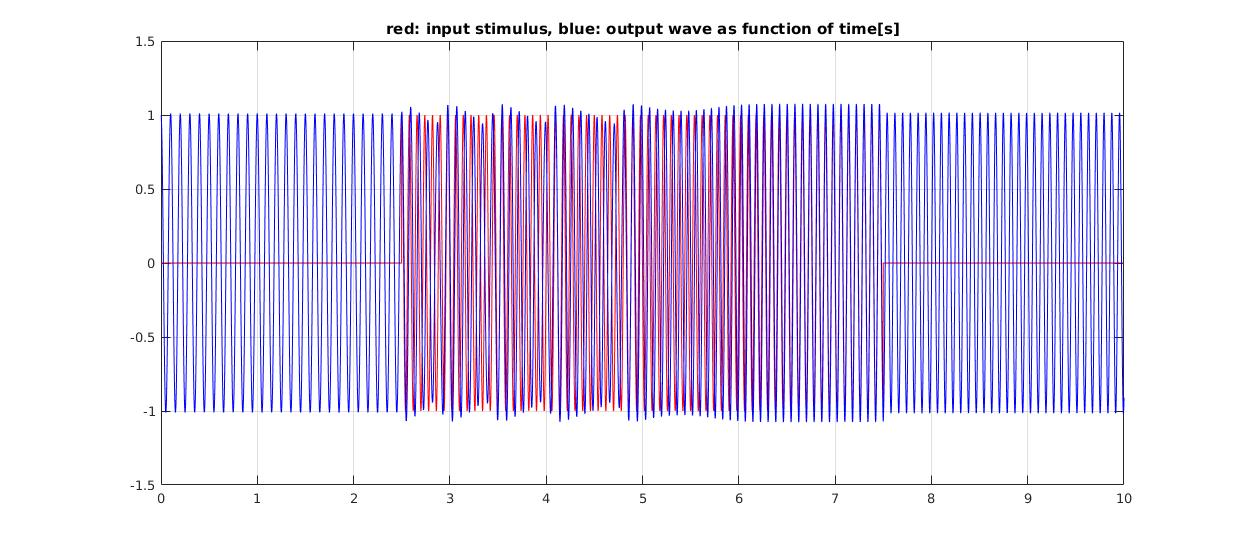
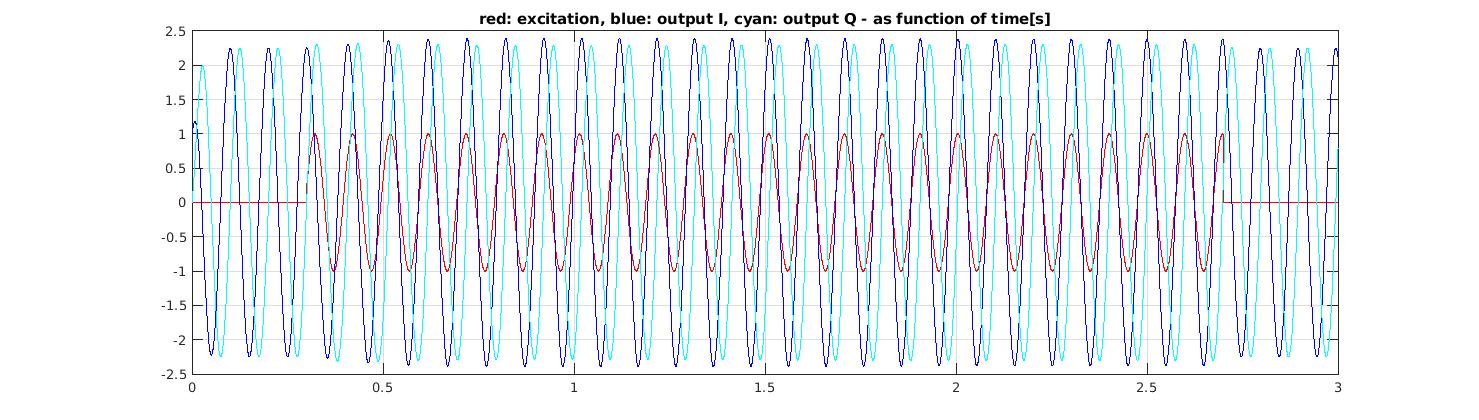
add example and update documentation

diff --git a/adaptive_Hopf.m b/adaptive_Hopf.m
@@ -1,84 +1,88 @@
 % File: adaptive_Hopf.m
 % Purpose: Matlab script for testing and tuning the Adaptive Frequency Oscillator Arduino program.
-% Version: 1.0.0
-% Date: 18-12-2018
+% Version: 1.1.0
+% Date: 10-01-2020
 % Created by: Martin Stokroos
-% URL: https://github.com/MartinStokroos/adaptiveFreqOsc
+% URL: https://www.epfl.ch/labs/biorob/research/neuromechanical/page-36365-en-html
 % License: MIT License
 
 % The adaptive Hopf frequency oscillator model was taken from:
 % A.J.Ijspeert, Adaptive Frequency Oscillators, https://biorob.epfl.ch/cms/page-36365.html.
 %
-% This m-file is not an example of efficient matlab programming. It was written with the purpose to develop C-programming code.
+% This m-file is not an example of efficient matlab programming. It was written with the purpose to develop C-code.
 
 clear all;
 close all;
 clc;
 
-Fs=1000; % sampling frequency
-Tfinal=10.0; % simulation time
-T=1/Fs; % sampling Time = 1/Fs
-t=linspace(0,Tfinal,Tfinal/T); % simulation time vector
+f_init = 10.0;
+f_step = 10.1;
+
+Fs=3000; %Sampling frequency
+Tfinal=3.0; %s simulation time
+T=1/Fs; %Sampling Time = 1/Fs
+t=linspace(0,Tfinal,Tfinal/T); %Simulation Time vector
 
 plotvar1 = linspace(0,0,Tfinal/T);
 plotvar2 = linspace(0,0,Tfinal/T);
-plotvar3 = linspace(0,0,Tfinal/T);
-x = 1;  % starting point of the oscillator. x=1 and y=0, starts as cosine. 
+plotvar4 = linspace(0,0,Tfinal/T);
+x = 1;  % starting point of the oscillator. x=1 and y=0 starts as cosine. 
 x_new = 0;
 x_d = 0;
 y = 0;
 y_new = 0;
 y_d = 0;
-ohm = 10*2*pi; %10Hz
+ohm = 2*pi*f_init
 ohm_new = 0;
 ohm_d = 0;
 
-Epsilon = 15; % coupling strength (>0).
-              % the oscillator locks faster for larger values, but it will also increase the ripple in the frequency. 
+Eps = 20; % coupling strength (>0).
+       % Locks faster for a bigger value, but the ripple in frequency is larger. 
 
-gamma = 100.0; % follows the amplitude of the stimulus better for larger values, but it may cause instability.  
+gamma = 10.0; % follows the amplitude of the stimulus better for high values
+           % may cause oscillations for high values  
 
-mu = 1.0; % seems to scale the amplitude.
+mu = 5.0; % seems to scale the amplitude.
 
 
 for n=1:Tfinal/T
     
-    % input stimulus
-    if n < Tfinal/(4*T) % apply step after 1/4th of the simulation time
+    %stimulus
+    if n < Tfinal/(10*T) % apply step at 1/10th of the simulation time
         F = 0;
         %F = sin(2*pi*n*T);
     end
-    if (n >= Tfinal/(4*T)) && (n < Tfinal/(4*T/3))
+    if (n >= Tfinal/(10*T)) && (n < Tfinal/(10*T/9))
         %F = 0;
-        F = sin(12.5*2*pi*n*T); %12.5Hz
+        F = sin(f_step*2*pi*n*T);
     end
-    if (n >= Tfinal/(4*T/3))
-        %F = 0;
+    if (n >= Tfinal/(10*T/9))
         F = 0;
     end
 
     % discretized adaptive Hopf
-    x_d = gamma*( mu-(x^2 + y^2) )*x - ohm*y + Epsilon*F;
+    x_d = gamma*( mu-(x^2 + y^2) )*x - ohm*y + Eps*F;
     y_d = gamma*( mu-(x^2 + y^2) )*y + ohm*x;
-    ohm_d = -Epsilon * F * y/( sqrt(x^2 + y^2) );
+    ohm_d = -Eps * F * y/( sqrt(x^2 + y^2) );
     x_new = x + T*x_d;
     y_new = y + T*y_d;
     ohm_new = ohm + T*ohm_d;
-    
-    plotvar1(n) = F; % input stimulus
-    plotvar2(n) = x; % output
-    plotvar3(n) = ohm/(2*pi); % frequency
+
+    plotvar1(n) = F;
+    plotvar2(n) = x;
+    plotvar3(n) = y;
+    plotvar4(n) = ohm/(2*pi); %frequency
     
     x = x_new;
     y = y_new;
     ohm = ohm_new;
-  
 end
 
 
 figure;
-plot(t,plotvar1,'r', t,plotvar2,'b'), title('red: input stimulus, blue: output wave as function of time[s]');
+plot(t,plotvar1,'r', t,plotvar2,'b',  t,plotvar3,'c'), title('red: excitation, blue: output I, cyan: output Q - as function of time[s]');
 grid on
 figure;
-plot(t, plotvar3), title('blue: output frequency [Hz], as function of time[s]');
+plot(t, plotvar4), title('blue: output frequency [Hz] as function of time[s]');
 grid on
+

diff --git a/README.md b/README.md
@@ -2,20 +2,26 @@
 
 The *adaptiveFreqOsc* project for Arduino is a fascinating example of a self learning algorithm.
 Ijspeert[1] presented a Hopf frequency oscillator and added an extra state variable to it, that forces the oscillator to follow any periodic input signal. In other words, this type of oscillator can adapt its parameters to learn the frequency of the periodic input signal. The Arduino sketch presented here, is an example of a practical implementation of such oscillator.
-First, the model from Ijspeert was discretized to make it run on the Arduino at a loop rate of 1kHz. The implications of the discretization are, that the oscillator will no longer synchronize to *any* periodic input signal. The sampling frequency must be taken into account.
+First, the model from Ijspeert was discretized to make it run on the Arduino. The implications of the discretization are, that the oscillator will no longer synchronize to *any* periodic input signal. The sampling frequency must be taken into account.
 
-The larger the frequency difference between the current output and the input of the oscillator, the longer it will take for the oscillator to converge to the desired input frequency. First, try the oscillator learning with only a few Hz difference between output and input and play with the parameter values for Epsilon, gamma and mu. After converging, take away the input signal and the last offered input frequency will stay encoded in the system.
+The larger the frequency difference between the current output and the input of the oscillator, the longer it will take for the oscillator to converge to the desired input frequency. First, try the oscillator learning only with  a few tenth of Hz's difference between output and input and play with the parameter values for Eps(ilon), gamma and mu. After converging, take away the input signal and the last offered input frequency will stay encoded in the system.
 
-The included Matlab script file *adaptive_Hopf.m* was used for the development of the C-code for the Arduino. The script can be used to tune the oscillator parameters before implementation of the oscillator in the Arduino. Figs. 1 and 2 are the result of a simulation with: Epsilon=15.0, gamma=100.0 and mu=1.0.
-f0=10.0Hz and finput=12.5Hz.
+The included Matlab script file *adaptive_Hopf.m* was used for the development of the C-code for the Arduino. The script can be used to tune the oscillator parameters before implementation of the oscillator in the Arduino. Figs. 1 and 2 are the result of a simulation at a loop-rate of 3kHz and with Eps=20.0, gamma=10.0 and mu=5.0,  f_initial=10.0Hz and f_excitation=10.1Hz.
 
-![Fig. 1. ](figures/fig_1.jpg  "Oscillator output as function of time.")
+![Fig. 1. ](figures/fig_1.jpg  "Oscillator output as function of time")
 
-In Fig. 1 the input stimulus appears at t=2.5s. The output slowly converges towards 12.5Hz. At t=7.5s, the input is turned off again.
+In Fig. 1 the input stimulus appears at t=0.3s. The output slowly converges towards 10.1Hz. At t=2.7s the input is turned off again. output I is the in-phase output and output Q the quadrature output. Fig. 2 shows the output frequency as function of time.
 
-![ Fig. 2.](figures/fig_2.jpg  "Output frequency as function of time.")
+![ Fig. 2.](figures/fig_2.jpg  "Output frequency as function of time")
 
-Turning off the input at t=7.5s, happens just before the moment that the oscillator is exactly converged to 12.5Hz. The last input frequency stays encoded in the oscillator.
+## Application Examples
 
-References:
+Arduino sketch *adaptiveFreqOsc1* runs at 1kHz. The intrinsic frequency is set to 1Hz.
+
+Arduino sketch *adaptiveFreqOsc2* runs at 3kHz. The intrinsic frequency is set to 10Hz.
+
+Using higher loop rates on a faster processor, makes higher output frequencies and a faster response possible.
+
+## References
+
 [1] A.J.Ijspeert, Adaptive Frequency Oscillators, [https://www.epfl.ch/labs/biorob/research/neuromechanical/page-36365-en-html](https://www.epfl.ch/labs/biorob/research/neuromechanical/page-36365-en-html) 
